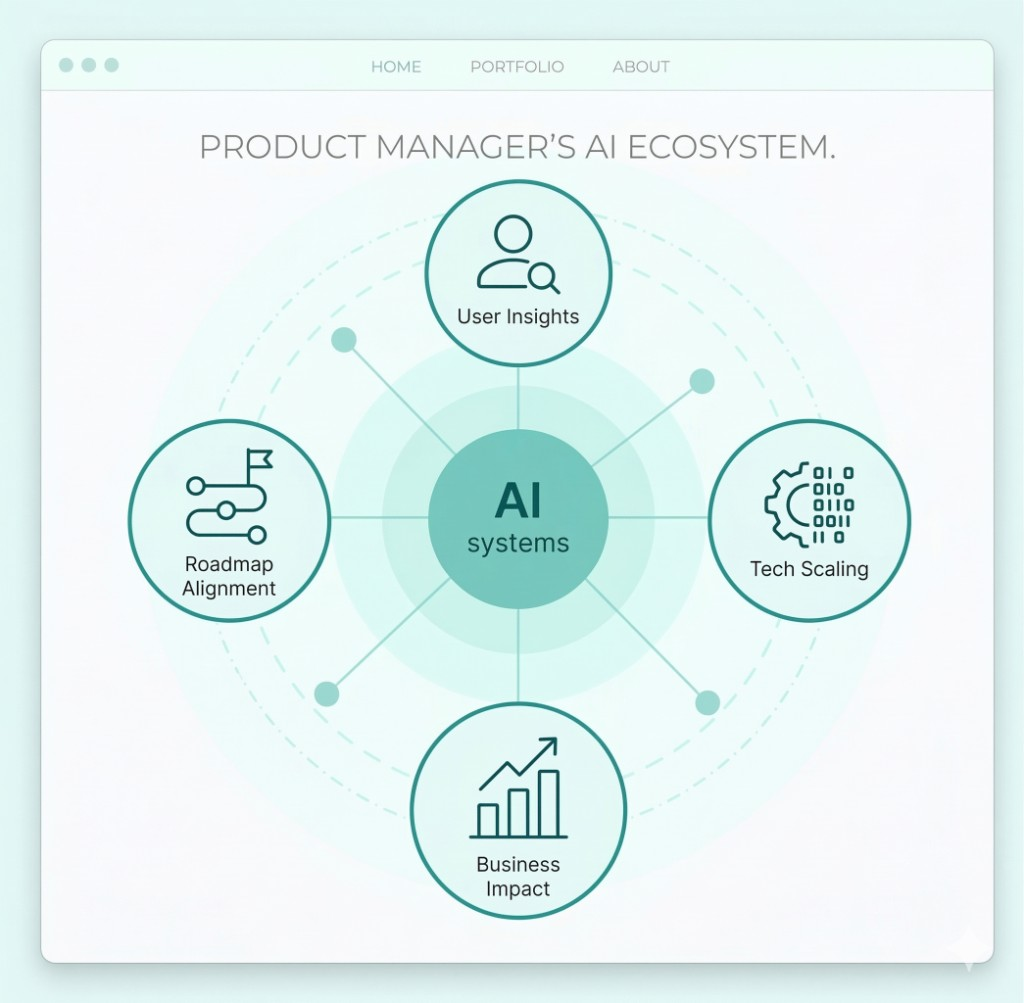
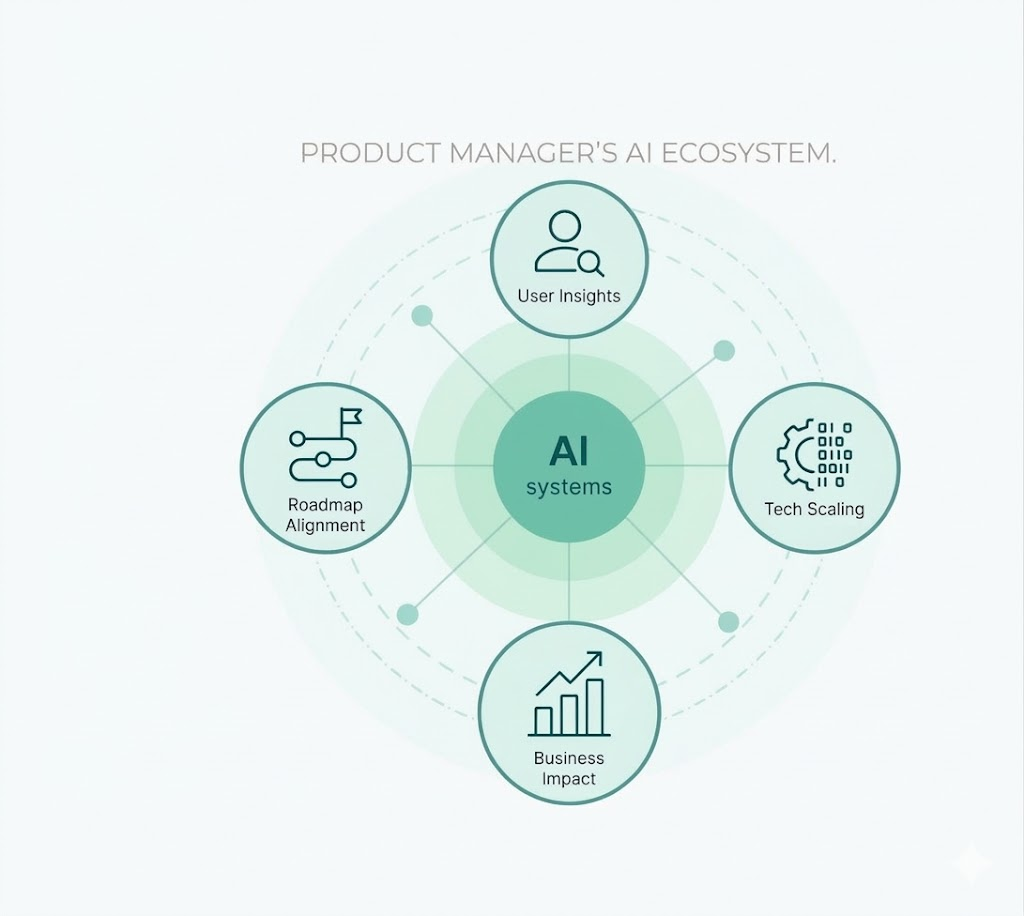
Add hero warmth: personal intro, crossfade portrait, wipe transition, SVG background
Made-with: Cursor

diff --git a/index.html b/index.html
@@ -27,7 +27,7 @@
           },
           colors: {
             accent: { DEFAULT: '#0F766E', hover: '#14B8A6', light: '#CCFBF1', bg: '#F0FDFA' },
-            base: '#F8FAFB',
+            surface: '#F8FAFB',
             txt: { DEFAULT: '#1A202C', secondary: '#4A5568', muted: '#718096' },
           },
         },
@@ -157,10 +157,91 @@
     /* ── Timeline ── */
     .tl-dot { width: 14px; height: 14px; border-radius: 50%; border: 3px solid #0F766E; background: #F8FAFB; flex-shrink: 0; z-index: 1; }
     .tl-line { width: 2px; background: #E2E8F0; flex-shrink: 0; }
+
+    /* ── Hero image swap (SteviaPlease multi-bar horizontal wipe) ── */
+    .hero-crossfade {
+      position: relative;
+      aspect-ratio: 1 / 1;
+      overflow: hidden;
+      -webkit-mask-image: linear-gradient(to right, transparent 0%, black 25%, black 85%, transparent 100%), linear-gradient(to bottom, transparent 0%, black 8%, black 88%, transparent 100%);
+      -webkit-mask-composite: destination-in;
+      mask-image: linear-gradient(to right, transparent 0%, black 25%, black 85%, transparent 100%), linear-gradient(to bottom, transparent 0%, black 8%, black 88%, transparent 100%);
+      mask-composite: intersect;
+    }
+    .hero-crossfade img {
+      position: absolute;
+      inset: 0;
+      width: 100%;
+      height: 100%;
+      object-fit: cover;
+    }
+    .hero-crossfade .img-b {
+      transform: scale(1.12);
+    }
+    .hero-crossfade .img-a { animation: imgA 10s linear infinite; }
+    .hero-crossfade .img-b { animation: imgB 10s linear infinite; }
+    @keyframes imgA {
+      0%, 41%    { opacity: 1; }
+      42%, 91%   { opacity: 0; }
+      92%, 100%  { opacity: 1; }
+    }
+    @keyframes imgB {
+      0%, 41%    { opacity: 0; }
+      42%, 91%   { opacity: 1; }
+      92%, 100%  { opacity: 0; }
+    }
+
+    .wipe-bars {
+      position: absolute;
+      inset: 0;
+      z-index: 3;
+      display: flex;
+      flex-direction: column;
+      pointer-events: none;
+    }
+    .wipe-bars span {
+      flex: 1;
+      animation: wipeBar 10s ease-in-out infinite;
+    }
+    .wipe-bars span:nth-child(1) { background: #E6FAF8; animation-delay: 0s; }
+    .wipe-bars span:nth-child(2) { background: #99F6E4; animation-delay: 0.06s; }
+    .wipe-bars span:nth-child(3) { background: #5EEAD4; animation-delay: 0.12s; }
+    .wipe-bars span:nth-child(4) { background: #14B8A6; animation-delay: 0.18s; }
+    .wipe-bars span:nth-child(5) { background: #0F766E; animation-delay: 0.24s; }
+    @keyframes wipeBar {
+      0%, 35%  { transform: translateX(-102%); }
+      48%      { transform: translateX(102%); }
+      50%, 85% { transform: translateX(102%); }
+      98%      { transform: translateX(-102%); }
+      100%     { transform: translateX(-102%); }
+    }
+
+    @media (prefers-reduced-motion: reduce) {
+      .hero-crossfade .img-a,
+      .hero-crossfade .img-b { animation: none !important; opacity: 1 !important; }
+      .hero-crossfade .img-b { opacity: 0 !important; }
+      .wipe-bars span { animation: none !important; transform: translateX(-102%) !important; }
+      .hero-bg-shapes * { animation: none !important; }
+    }
+
+    /* ── Hero animated SVG background ── */
+    .hero-bg-shapes {
+      position: absolute;
+      inset: 0;
+      width: 100%;
+      height: 100%;
+      pointer-events: none;
+      z-index: 0;
+      overflow: hidden;
+    }
+    @keyframes floatA { 0%,100% { transform: translate(0,0) rotate(0deg); } 50% { transform: translate(18px,-22px) rotate(8deg); } }
+    @keyframes floatB { 0%,100% { transform: translate(0,0) rotate(0deg); } 50% { transform: translate(-22px,16px) rotate(-6deg); } }
+    @keyframes floatC { 0%,100% { transform: translate(0,0) rotate(0deg); } 50% { transform: translate(12px,18px) rotate(5deg); } }
+    @keyframes floatD { 0%,100% { transform: translate(0,0) rotate(0deg); } 50% { transform: translate(-15px,-12px) rotate(-4deg); } }
   </style>
 </head>
 
-<body class="bg-base text-txt antialiased">
+<body class="bg-surface text-txt antialiased">
 
   <!-- ===== 1. NAVIGATION ===== -->
   <nav class="nav-enter fixed top-0 left-0 right-0 z-50 border-b border-gray-200 bg-white/90 backdrop-blur-md">
@@ -194,7 +275,7 @@
   <section id="hero" class="px-5 pt-28 pb-16 md:pt-36 md:pb-24">
     <div class="mx-auto grid max-w-6xl grid-cols-1 items-center gap-12 md:grid-cols-5">
       <div class="md:col-span-3">
-        <p class="hero-enter text-sm font-medium text-txt-muted">Build with confidence. Ship with clarity.</p>
+        <p class="hero-enter font-heading text-2xl font-bold text-accent sm:text-3xl">Hi, I'm F&aacute;bio</p>
         <h1 class="hero-enter mt-4 font-heading text-4xl font-bold leading-tight text-txt sm:text-5xl lg:text-[3.5rem] lg:leading-[1.15]">
           I build AI capabilities inside systems that actually run the business.
         </h1>
@@ -216,9 +297,13 @@
           </div>
         </div>
       </div>
-      <div class="hero-svg-enter md:col-span-2 flex items-center justify-center">
-        <div class="w-full max-w-xs md:max-w-sm overflow-hidden rounded-2xl shadow-lg">
-          <img src="ai-ecosystem.png" alt="Product Manager's AI Ecosystem — User Insights, Tech Scaling, Business Impact, Roadmap Alignment" class="w-full h-auto object-cover object-bottom" style="margin-top: -8%;">
+      <div class="hero-svg-enter md:col-span-2 flex items-center justify-end md:mr-[-2rem]">
+        <div class="w-full max-w-sm md:max-w-lg">
+          <div class="hero-crossfade">
+            <img src="ai-ecosystem.png" alt="AI Ecosystem — User Insights, Tech Scaling, Business Impact, Roadmap Alignment" class="img-a">
+            <img src="img/fabio-portrait.png" alt="F&aacute;bio Oliveira" class="img-b">
+            <div class="wipe-bars" aria-hidden="true"><span></span><span></span><span></span><span></span><span></span></div>
+          </div>
         </div>
       </div>
     </div>
@@ -229,7 +314,7 @@
     <div class="mx-auto max-w-6xl">
       <div class="reveal reveal-left">
         <p class="max-w-3xl text-xl leading-relaxed text-txt sm:text-2xl">
-          <span class="font-heading font-bold">Hello, I'm Fábio</span> &mdash; an operations-turned-product leader who builds AI capabilities inside enterprise systems at scale.
+          A business-turned-product leader who builds <span class="font-heading font-bold text-accent">AI capabilities</span> inside enterprise systems at scale.
         </p>
       </div>
 
@@ -351,7 +436,7 @@
   </section>
 
   <!-- ===== 6. SELECTED WORKS ===== -->
-  <section id="works" class="border-t border-gray-200 bg-base px-5 py-16 md:py-24">
+  <section id="works" class="border-t border-gray-200 bg-surface px-5 py-16 md:py-24">
     <div class="mx-auto max-w-6xl">
       <div class="reveal reveal-up">
         <p class="text-xs font-semibold uppercase tracking-widest text-accent">Selected Works</p>
@@ -625,8 +710,16 @@
   </section>
 
   <!-- ===== 8. APPROACH ===== -->
-  <section id="approach" class="border-t border-gray-200 bg-white px-5 py-16 md:py-24">
-    <div class="mx-auto max-w-6xl">
+  <section id="approach" class="relative overflow-hidden border-t border-gray-200 bg-white px-5 py-16 md:py-24">
+    <svg class="hero-bg-shapes" viewBox="0 0 1440 700" preserveAspectRatio="xMidYMid slice" xmlns="http://www.w3.org/2000/svg" aria-hidden="true">
+      <polygon points="120,80 200,40 250,100 220,180 140,170" fill="#CCFBF1" opacity="0.45" style="animation: floatA 28s ease-in-out infinite;"/>
+      <polygon points="900,20 970,0 1010,50 990,110 920,105" fill="#99F6E4" opacity="0.3" style="animation: floatB 34s ease-in-out infinite;"/>
+      <polygon points="50,450 160,400 190,500 110,540" fill="#5EEAD4" opacity="0.15" style="animation: floatC 24s ease-in-out infinite;"/>
+      <circle cx="1300" cy="180" r="60" fill="#0F766E" opacity="0.05" style="animation: floatD 30s ease-in-out infinite;"/>
+      <circle cx="350" cy="600" r="12" fill="#14B8A6" opacity="0.2" style="animation: floatA 22s ease-in-out infinite;"/>
+      <polygon points="1100,500 1180,520 1150,600" fill="#CCFBF1" opacity="0.25" style="animation: floatB 26s ease-in-out infinite;"/>
+    </svg>
+    <div class="relative z-10 mx-auto max-w-6xl">
       <div class="reveal reveal-up">
         <p class="text-xs font-semibold uppercase tracking-widest text-accent">Approach</p>
         <h2 class="mt-3 font-heading text-3xl font-bold text-txt sm:text-4xl">How I introduce AI into enterprise systems.</h2>
@@ -775,7 +868,7 @@
   </section>
 
   <!-- ===== 11. EDUCATION ===== -->
-  <section class="border-t border-gray-200 bg-base px-5 py-16 md:py-20">
+  <section class="border-t border-gray-200 bg-surface px-5 py-16 md:py-20">
     <div class="mx-auto max-w-3xl">
       <div class="reveal reveal-up">
         <p class="text-xs font-semibold uppercase tracking-widest text-accent">Education</p>
@@ -882,6 +975,7 @@
     }
     window.addEventListener('load', () => { revealVisibleNow(); requestAnimationFrame(revealVisibleNow); });
     document.fonts.ready.then(() => { revealVisibleNow(); requestAnimationFrame(revealVisibleNow); });
+    lenis.on('scroll', () => { revealVisibleNow(); });
 
     // ── Smooth accordion (measure real height) ──
     function toggleAccordion(body, open) {
@@ -928,7 +1022,17 @@
     document.querySelectorAll('a[href^="#"]').forEach(a => {
       a.addEventListener('click', (e) => {
         const target = document.querySelector(a.getAttribute('href'));
-        if (target) { e.preventDefault(); lenis.scrollTo(target, { offset: -56 }); }
+        if (target) {
+          e.preventDefault();
+          lenis.scrollTo(target, {
+            offset: -56,
+            onComplete: () => {
+              revealVisibleNow();
+              requestAnimationFrame(revealVisibleNow);
+              setTimeout(revealVisibleNow, 100);
+            }
+          });
+        }
       });
     });
 
